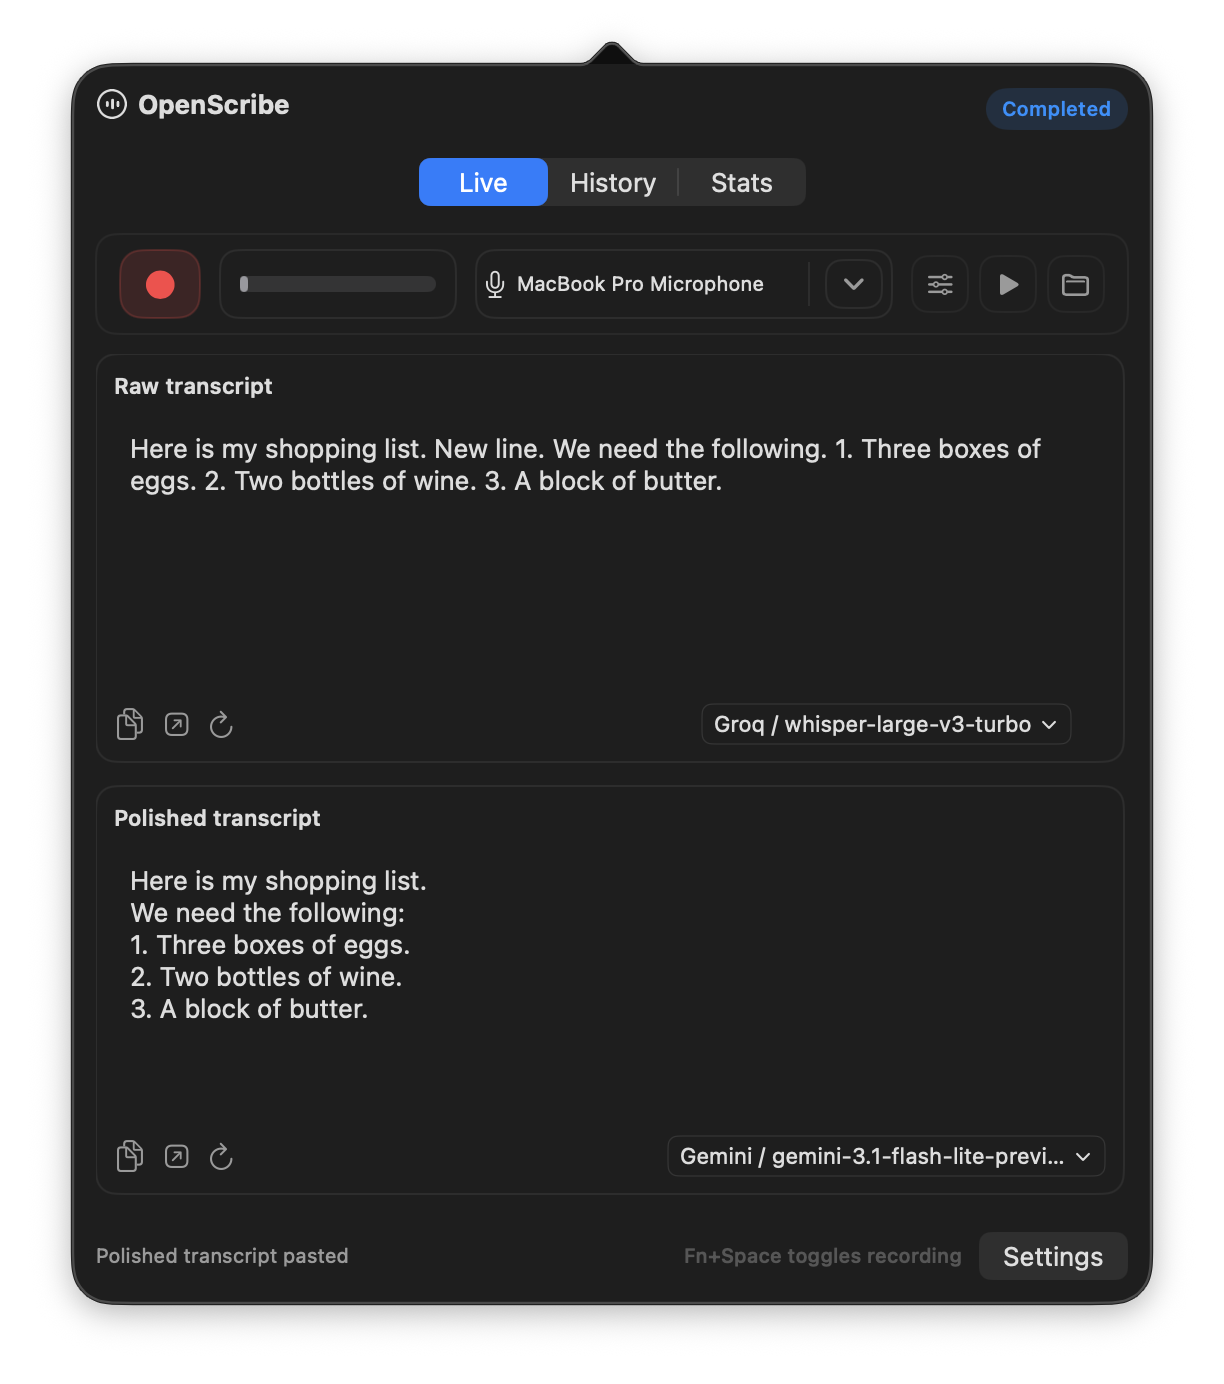
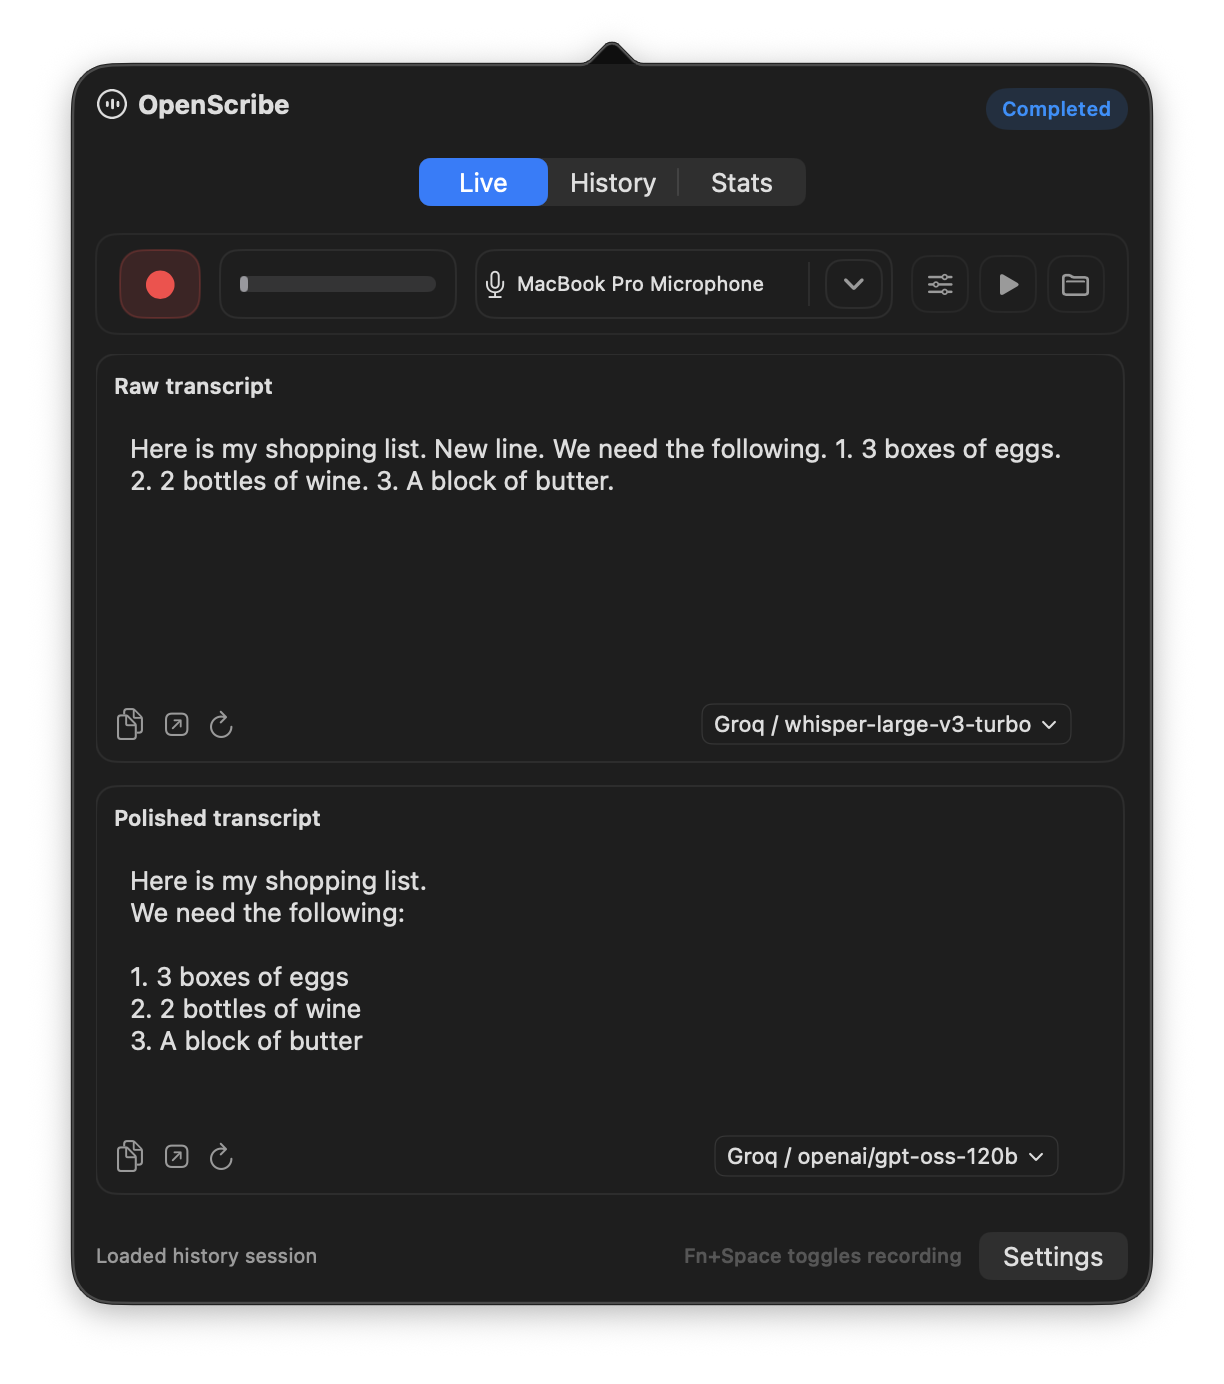
fix: align Groq recommendation and model preference
Why
- Align the recommended hosted setup with the current Groq workflow.
- Keep docs and curated screenshots consistent with app behavior.
- Preserve the preferred Groq polish model after catalog refresh.

What
- Update guides and screenshots for Groq transcription and Groq polish.
- Rename About tab labels to current provider wording.
- Prioritize openai/gpt-oss-120b in Groq polish fallback and verified model lists.
- Add focused regression coverage for Groq model ordering.

Instruction
- Update the recommended setup docs to reflect the new Groq based workflow.

diff --git a/Sources/OpenScribe/AppShell/AppShell.swift b/Sources/OpenScribe/AppShell/AppShell.swift
@@ -1134,7 +1134,7 @@ final class AppShell: ObservableObject {
         for providerID: String,
         usage: ProviderModelUsage
     ) -> [String] {
-        let fallback = fallbackModels(for: providerID, usage: usage)
+        let fallback = Self.fallbackModels(for: providerID, usage: usage)
         let backend = backend(for: providerID)
         guard let backend else { return fallback }
 
@@ -1143,15 +1143,15 @@ final class AppShell: ObservableObject {
             return fallback
         }
 
-        let filtered = filterModels(fetched, backend: backend, usage: usage)
+        let filtered = Self.filterModels(fetched, backend: backend, usage: usage)
         if filtered.isEmpty {
             return fallback
         }
 
-        return filtered
+        return Self.prioritizeRecommendedModel(filtered, providerID: providerID, usage: usage)
     }
 
-    private func fallbackModels(for providerID: String, usage: ProviderModelUsage) -> [String] {
+    nonisolated static func fallbackModels(for providerID: String, usage: ProviderModelUsage) -> [String] {
         switch (providerID, usage) {
         case ("whispercpp", .transcription):
             return ["tiny", "base", "small", "medium"]
@@ -1166,7 +1166,7 @@ final class AppShell: ObservableObject {
         case ("openai_polish", .polish):
             return ["gpt-5-nano", "gpt-5-mini"]
         case ("groq_polish", .polish):
-            return ["llama-3.3-70b-versatile", "mixtral-8x7b-32768"]
+            return ["openai/gpt-oss-120b", "llama-3.3-70b-versatile", "mixtral-8x7b-32768"]
         case ("openrouter_polish", .polish):
             return ["openai/gpt-5-nano", "openai/gpt-5-mini", "google/gemini-2.5-flash"]
         case ("gemini_polish", .polish):
@@ -1176,6 +1176,19 @@ final class AppShell: ObservableObject {
         case (_, .polish):
             return ["gpt-5-nano"]
         }
+    }
+
+    nonisolated static func prioritizeRecommendedModel(
+        _ models: [String],
+        providerID: String,
+        usage: ProviderModelUsage
+    ) -> [String] {
+        guard let recommended = recommendedModel(for: providerID, usage: usage),
+              models.contains(recommended) else {
+            return models
+        }
+
+        return [recommended] + models.filter { $0 != recommended }
     }
 
     func providerConnectivityStatus(for providerID: String) -> ProviderConnectivityStatus {
@@ -1361,7 +1374,7 @@ final class AppShell: ObservableObject {
         }
     }
 
-    private func filterModels(
+    nonisolated static func filterModels(
         _ models: [String],
         backend: ProviderBackend,
         usage: ProviderModelUsage
@@ -1387,6 +1400,18 @@ final class AppShell: ObservableObject {
             return filtered.sorted()
         case (.whispercpp, _), (.openrouter, _), (.gemini, _):
             return models.sorted()
+        }
+    }
+
+    nonisolated private static func recommendedModel(
+        for providerID: String,
+        usage: ProviderModelUsage
+    ) -> String? {
+        switch (providerID, usage) {
+        case ("groq_polish", .polish):
+            return "openai/gpt-oss-120b"
+        default:
+            return nil
         }
     }
 

diff --git a/Tests/OpenScribeTests/AppShellFallbackModelsTests.swift b/Tests/OpenScribeTests/AppShellFallbackModelsTests.swift
@@ -1,0 +1,33 @@
+import XCTest
+@testable import OpenScribe
+
+final class AppShellFallbackModelsTests: XCTestCase {
+    func testGroqPolishFallbackModelsPreferPreferredModel() {
+        let models = AppShell.fallbackModels(for: "groq_polish", usage: .polish)
+
+        XCTAssertEqual(models.first, "openai/gpt-oss-120b")
+        XCTAssertTrue(models.contains("llama-3.3-70b-versatile"))
+        XCTAssertTrue(models.contains("mixtral-8x7b-32768"))
+    }
+
+    func testGroqPolishFetchedCatalogStillPrefersPreferredModel() {
+        let models = [
+            "allam-2-7b",
+            "groq/compound",
+            "llama-3.3-70b-versatile",
+            "openai/gpt-oss-120b"
+        ]
+
+        let ordered = AppShell.prioritizeRecommendedModel(
+            models,
+            providerID: "groq_polish",
+            usage: .polish
+        )
+
+        XCTAssertEqual(ordered.first, "openai/gpt-oss-120b")
+        XCTAssertEqual(
+            Array(ordered.dropFirst()),
+            ["allam-2-7b", "groq/compound", "llama-3.3-70b-versatile"]
+        )
+    }
+}

diff --git a/Sources/OpenScribe/AppShell/StatusBarController.swift b/Sources/OpenScribe/AppShell/StatusBarController.swift
@@ -519,8 +519,10 @@ final class StatusBarController: NSObject {
             shell.polishedTranscript = sampleText + " Polished."
             shell.rawTranscriptProviderID = "groq_whisper"
             shell.rawTranscriptModel = "whisper-large-v3-turbo"
-            shell.polishedTranscriptProviderID = "gemini_polish"
-            shell.polishedTranscriptModel = "gemini-2.5-flash-lite"
+            shell.polishedTranscriptProviderID = "groq_polish"
+            shell.polishedTranscriptModel = "openai/gpt-oss-120b"
+            shell.sessionState = .completed
+            shell.statusMessage = "Polished transcript pasted"
             shell.selectPopoverTab(.live)
             try? await Task.sleep(nanoseconds: 500_000_000)
             let liveContentView = popover.contentViewController?.view.window?.contentView

diff --git a/Sources/OpenScribe/UI/SettingsView.swift b/Sources/OpenScribe/UI/SettingsView.swift
@@ -955,12 +955,12 @@ struct SettingsView: View {
                         .foregroundStyle(.secondary)
                 }
 
-                settingRow("Default STT provider") {
+                settingRow("Current STT provider") {
                     Text(shell.settings.transcriptionProviderID)
                         .foregroundStyle(.secondary)
                 }
 
-                settingRow("Default polish provider") {
+                settingRow("Current polish provider") {
                     Text(shell.settings.polishProviderID)
                         .foregroundStyle(.secondary)
                 }

diff --git a/site-docs/guides/free-tiers.md b/site-docs/guides/free-tiers.md
@@ -6,12 +6,12 @@ For this guide, the recommended path is:
 
 - Transcription on `Groq Whisper`
 - Transcription model `whisper-large-v3-turbo`
-- Polish on `Gemini`
-- Polish model `gemini-3.1-flash-lite-preview`
+- Polish on `Groq`
+- Polish model `openai/gpt-oss-120b`
 - Language mode `auto`
 - Copy on complete `On`
 
-This setup gives a better first impression than the default local model alone. Groq transcription is fast and optimized, and polish adds a large part of the value people notice in OpenScribe.
+This setup gives a better first impression than the default local model alone. Groq transcription is fast and optimized, polish adds a large part of the value people notice in OpenScribe, and one provider key keeps the setup simpler.
 
 !!! note "Free-tier terms can change"
     These guides focus on providers that currently let many users get started without adding a credit card. Check the linked provider docs to confirm current account, rate-limit, and billing requirements before you rely on them.
@@ -19,10 +19,10 @@ This setup gives a better first impression than the default local model alone. G
 ## Why this is the recommended path
 
 - Groq gives near-instant transcription and feels better than the local baseline for day-one use.
-- Gemini 3.1 Flash Lite is fast and capable for transcript cleanup.
-- Gemini can also transcribe, but Groq is the faster transcription choice in this setup.
+- `openai/gpt-oss-120b` on Groq is strong for transcript cleanup without adding a second provider.
+- Gemini can cover both transcription and polish if you want to experiment there, but it is not the recommended polish provider for this guide.
 - Polish makes OpenScribe feel much more useful because the output is closer to ready-to-paste text.
-- This combination stays simple: one provider for speech-to-text and one provider for cleanup.
+- This combination stays simple: one provider, one key, and one model catalog to refresh.
 
 ## How Stefan uses OpenScribe
 
@@ -31,8 +31,8 @@ Stefan's current setup on this machine is:
 - Transcribe with `Groq Whisper`
 - Model `whisper-large-v3-turbo`
 - Polish enabled
-- Polish provider `Gemini`
-- Polish model `gemini-3.1-flash-lite-preview`
+- Polish provider `Groq`
+- Polish model `openai/gpt-oss-120b`
 - Language `auto`
 - Copy on complete enabled
 
@@ -43,9 +43,9 @@ If you want to copy the setup that is already working well in practice, use thos
 1. Open Settings > Providers and add your Groq API key.
 2. In Settings > Transcribe, choose `Groq Whisper`.
 3. Set the transcription model to `whisper-large-v3-turbo`.
-4. Back in Settings > Providers, add your Gemini API key.
-5. In Settings > Polish, turn polish on.
-6. Choose `Gemini` and set the model to `gemini-3.1-flash-lite-preview`.
+4. In Settings > Polish, turn polish on.
+5. Choose `Groq`.
+6. Set the polish model to `openai/gpt-oss-120b`.
 7. Keep language on `auto`.
 8. Leave copy on complete on.
 
@@ -55,7 +55,7 @@ If you want to copy the setup that is already working well in practice, use thos
 - [Gemini Free Tier Setup](gemini-free-tier-setup.md)
 - [OpenRouter Free Tier Setup](openrouter-free-tier-setup.md)
 
-OpenRouter is useful as an alternative for polish experiments. The main recommendation for the best free-tier experience remains Groq transcription plus Gemini polish.
+OpenRouter and Gemini are useful as alternative experiment paths. The main recommendation for the best free-tier experience is Groq transcription plus Groq polish on `openai/gpt-oss-120b`.
 
 ## What about the local model?
 

diff --git a/site-docs/guides/providers.md b/site-docs/guides/providers.md
@@ -2,7 +2,7 @@
 
 OpenScribe lets you mix local and cloud providers depending on how you want the app to behave. A simple setup can stay fully local. A more flexible setup can add cloud models for transcription, polish, or both.
 
-If you want the best no-cost setup path, start with [Using Free Tiers](free-tiers.md) and configure Groq transcription plus Gemini polish.
+If you want the best no-cost setup path, start with [Using Free Tiers](free-tiers.md) and configure Groq transcription plus Groq polish on `openai/gpt-oss-120b`.
 
 ![Providers settings tab](/images/ui/settings-providers.png){ .guide-shot data-light-src="/images/ui/settings-providers.png" data-dark-src="/images/ui/settings-providers-dark.png" }
 
@@ -32,10 +32,10 @@ These providers send your audio over the network and require an API key:
 
 Polish runs a language model on your raw transcript to improve grammar, formatting, and structure. All polish providers are cloud-based, so this step always needs an API key.
 
-- **OpenAI** -- default: `gpt-5-nano`.
-- **Groq** -- fast inference for supported models.
+- **OpenAI** -- built-in default: `gpt-5-nano`.
+- **Groq** -- recommended cloud polish path with `openai/gpt-oss-120b`.
 - **OpenRouter** -- access to multiple model providers through one API key.
-- **Gemini** -- Google models.
+- **Gemini** -- Google models that can cover transcription and polish, but they are not the recommended polish path.
 
 Polish is disabled by default. Enable it in Settings > Polish.
 
@@ -56,7 +56,7 @@ App updates do not clear those saved keys for the same macOS user account.
 
 Use the model picker in Settings > Transcribe or Settings > Polish to browse what each provider offers. Refresh the provider model list in Settings > Providers when you want the latest options.
 
-For transcription, larger models are usually more accurate and slower. For polish, the right choice depends on how much latency you are willing to trade for better cleanup.
+For transcription, larger models are usually more accurate and slower. For polish, the right choice depends on how much latency you are willing to trade for better cleanup. If you want the simplest recommended hosted setup, use `whisper-large-v3-turbo` for transcription and `openai/gpt-oss-120b` on Groq for polish.
 
 ## Language
 

diff --git a/site-docs/guides/groq-free-tier-setup.md b/site-docs/guides/groq-free-tier-setup.md
@@ -1,6 +1,6 @@
 # Groq Free Tier Setup
 
-Groq is the recommended transcription provider for the free-tier OpenScribe setup. It is fast, optimized, and gives a much better day-one experience than relying on the default local model alone.
+Groq is the recommended provider for the free-tier OpenScribe setup. It gives you fast transcription, strong polish, and a simpler one-key setup.
 
 !!! note "Check current plan limits first"
     Groq publishes separate free-plan and developer-plan limits. Review the current [rate limits](https://console.groq.com/docs/rate-limits) and [spend limits](https://console.groq.com/docs/spend-limits) before you rely on a setup.
@@ -31,15 +31,35 @@ For the recommended free-tier setup:
 
 This is the speech-to-text setup Stefan is using on this machine.
 
-## 4. Recommended pairing
+## 4. Use Groq for polish
 
-Groq is the recommended transcription step. For polish, pair it with Gemini rather than trying to do everything with one provider.
+For the recommended free-tier setup:
 
-Use the companion guide here:
+1. Open Settings > Polish.
+2. Turn polish on.
+3. Choose `Groq` as the provider.
+4. Pick `openai/gpt-oss-120b`.
 
-- [Gemini Free Tier Setup](gemini-free-tier-setup.md)
+This is the polish setup Stefan is using on this machine.
+
+## 5. Free-plan limits for the recommended models
+
+Groq publishes a shared free-plan rate-limit table. As of March 9, 2026, the recommended models are listed there with these base limits:
+
+- `whisper-large-v3-turbo`: `20 RPM`, `2K RPD`, `7.2K ASH`, `28.8K ASD`
+- `openai/gpt-oss-120b`: `30 RPM`, `1K RPD`, `8K TPM`, `200K TPD`
+
+Groq defines `ASH` as audio seconds per hour and `ASD` as audio seconds per day.
+
+Check Groq's current docs before you rely on a limit in production because plan details can change.
+
+## 6. Why this is the recommendation
+
+Groq handles both stages well, keeps setup simpler than a two-provider path, and still gives you room to experiment with Gemini or OpenRouter later.
 
 ## Continue
 
 - Main setup guide: [Using Free Tiers](free-tiers.md)
+- [Gemini Free Tier Setup](gemini-free-tier-setup.md)
+- [OpenRouter Free Tier Setup](openrouter-free-tier-setup.md)
 - Provider overview: [Providers and Models](providers.md)

diff --git a/site-docs/guides/gemini-free-tier-setup.md b/site-docs/guides/gemini-free-tier-setup.md
@@ -1,6 +1,6 @@
 # Gemini Free Tier Setup
 
-Gemini is the recommended polish provider for the free-tier OpenScribe setup. It is fast, capable, and works well as the cleanup step after Groq transcription.
+Gemini is an alternative free-tier provider for OpenScribe. It can handle both transcription and polish, but it is not the recommended polish provider for the main setup path due to increased latency.
 
 !!! note "Free-tier availability can vary"
     Google publishes separate free and paid tiers for the Gemini API, and regional availability can change. Check the current [API key guide](https://ai.google.dev/gemini-api/docs/api-key), [pricing](https://ai.google.dev/pricing), and [rate limits](https://ai.google.dev/gemini-api/docs/rate-limits) before you commit to a setup.
@@ -19,20 +19,20 @@ Gemini is the recommended polish provider for the free-tier OpenScribe setup. It
 3. Use Verify.
 4. Use Refresh models.
 
-## 3. Use Gemini for polish
+## 3. Use Gemini in OpenScribe
 
-For the recommended free-tier setup:
+If you want to experiment with Gemini as a one-provider path:
 
-1. Open Settings > Polish.
-2. Turn polish on.
-3. Choose `Gemini` as the provider.
-4. Pick `gemini-3.1-flash-lite-preview`.
+1. Open Settings > Transcribe.
+2. Choose `Gemini` as the provider.
+3. Pick `gemini-3.1-flash-lite-preview` if you want a shared model that works in both Transcribe and Polish.
+4. If you also want Gemini polish, open Settings > Polish, turn polish on, choose `Gemini`, and use the same model there.
 
-This is the polish setup Stefan is using on this machine.
+Use this when you want to stay inside Google's model catalog for both stages.
 
-## 4. Recommended pairing
+## 4. How it fits with the main recommendation
 
-Gemini can also handle transcription in OpenScribe, but it is slower than Groq for this job. That is why the recommended pairing uses both providers for the tasks they do best: Groq for fast transcription and Gemini for polish.
+Gemini can cover both transcription and polish, but the main recommendation remains Groq transcription plus Groq polish on `openai/gpt-oss-120b`. That path is simpler and matches the setup Stefan is using on this machine.
 
 Use the companion guide here:
 

diff --git a/site-docs/guides/getting-started.md b/site-docs/guides/getting-started.md
@@ -28,7 +28,7 @@ If you do not see any text after stopping, check the menu bar icon state. A no-a
 
 If you just want a quick smoke test, the default local whisper.cpp provider is enough to confirm that recording works.
 
-If you want the best day-to-day setup after launch, continue with [Using Free Tiers](free-tiers.md) and configure Groq transcription plus Gemini polish.
+If you want the best day-to-day setup after launch, continue with [Using Free Tiers](free-tiers.md) and configure Groq transcription plus Groq polish on `openai/gpt-oss-120b`.
 
 If you want OpenScribe to clean up grammar and formatting after transcription, turn on polish in Settings > Polish and then tailor the output with [Custom Rules](custom-rules.md).
 

diff --git a/site-docs/reference/ui-reference.md b/site-docs/reference/ui-reference.md
@@ -137,7 +137,7 @@ You can open Settings from the right-click menu, with `Cmd + ,` when OpenScribe 
 ### About
 
 - App version and build.
-- Current default providers.
+- Current provider selections.
 - Repository and governance links.
 
 ![About settings tab](/images/ui/settings-about.png){ .guide-shot data-light-src="/images/ui/settings-about.png" data-dark-src="/images/ui/settings-about-dark.png" }

diff --git a/site-docs/guides/openrouter-free-tier-setup.md b/site-docs/guides/openrouter-free-tier-setup.md
@@ -33,7 +33,7 @@ If you want to experiment with OpenRouter on its free tier:
 OpenRouter is useful when you want flexibility. The main free-tier recommendation for the best OpenScribe experience is still:
 
 - Groq transcription with `whisper-large-v3-turbo`
-- Gemini polish with `gemini-3.1-flash-lite-preview`
+- Groq polish with `openai/gpt-oss-120b`
 
 ## Continue
 
